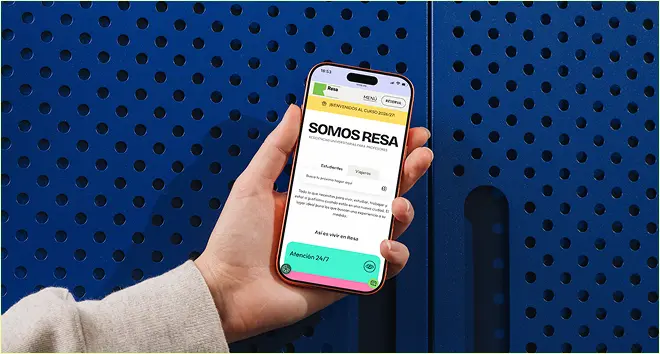
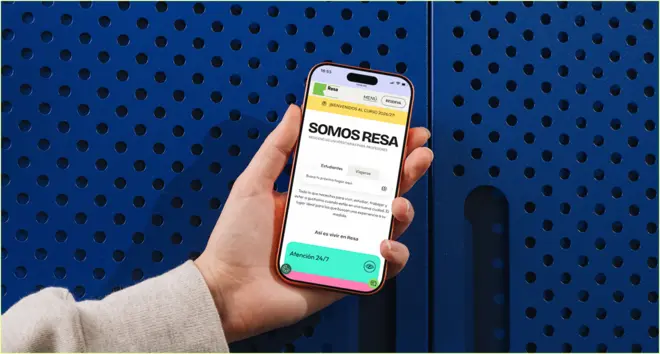
Homepage: exact figures from the Figma SVGs, no seams, marquee rules
- Principles figures, How I work step figures, About shapes and the cat are
  rebuilt from images/shapes/*.svg: each path is its own piece (a small svg
  with a viewBox fitted to that path), positioned in % of the figure box,
  coloured with tokens, so pieces can be animated one by one.
- Principle pieces overlap by one screen pixel each side (non-scaling 2px
  stroke) so no joints show at any size, zoom or pixel density; the arch's
  cream cut-out grows a little more so no pink fringe shows.
- Step figures hide the timeline line behind them, as in the SVGs.
- Cat pupils rest where the drawing puts them and move from there.
- Marquee: 1px lime rule above and below the logo row, full width; the
  boundary above the Brands label is covered so no hairline can show.
- Resa card: sharper thumbnail (1x from the new upload, 2x for retina).
- CLAUDE.md updated.

Claude-Session: https://claude.ai/code/session_019pqTvPFBWj86gGPdNi1oX4

diff --git a/index.html b/index.html
@@ -49,11 +49,22 @@
         </div>
         <!-- Five flat shapes, one component each (id = the shape). Positioned with --x / --y in Figma px at 1440. -->
         <div class="shapes" aria-hidden="true">
-          <div class="shape shape-pill" id="shape-pill"><span class="shape-pill-text">Hi!</span></div>
-          <div class="shape shape-diamond" id="shape-diamond"></div>
-          <div class="shape shape-half" id="shape-half"></div>
-          <div class="shape shape-triangle" id="shape-triangle"></div>
-          <div class="shape shape-circle" id="shape-circle"></div>
+          <div class="shape" id="shape-pill" style="--x:100.3;--y:7.8;--w:220;--h:165">
+            <svg class="piece" style="--l:0;--t:0;--w:99.75;--h:99.61;--c:var(--pink)" viewBox="0 0 219.45 164.36" focusable="false"><rect y="81.9664" width="200" height="90.3256" rx="45.1628" transform="rotate(-24.1943 0 81.9664)"></rect></svg>
+            <svg class="piece" style="--l:37.56;--t:36.16;--w:24;--h:26.87;--c:var(--blue-hi)" viewBox="82.64 59.66 52.8 44.33" focusable="false"><path d="M110.207 96.7625L98.7318 71.222L103.658 69.0089L115.133 94.5494L110.207 96.7625ZM94.1166 103.992L82.6413 78.4515L87.567 76.2384L99.0423 101.779L94.1166 103.992ZM93.3819 91.035L91.595 87.0579L104.292 81.3531L106.079 85.3301L93.3819 91.035ZM120.163 92.2894L111.901 73.9002L116.827 71.6871L125.089 90.0763L120.163 92.2894ZM113.251 70.2679C112.375 70.6613 111.531 70.7338 110.717 70.4853C109.917 70.2015 109.337 69.6582 108.977 68.8555C108.616 68.0528 108.601 67.2704 108.931 66.5082C109.274 65.7108 109.883 65.1154 110.759 64.7219C111.659 64.3176 112.509 64.2573 113.309 64.541C114.122 64.7896 114.709 65.3152 115.07 66.1179C115.43 66.9206 115.439 67.7206 115.096 68.5181C114.766 69.2802 114.151 69.8635 113.251 70.2679ZM127.459 79.0129L119.175 62.0372L124.465 59.6602L131.655 77.1277L127.459 79.0129ZM133.395 86.5634C132.495 86.9678 131.633 87.0335 130.809 86.7607C129.998 86.4526 129.412 85.8972 129.052 85.0945C128.691 84.2918 128.67 83.4972 128.989 82.7107C129.322 81.889 129.938 81.2759 130.838 80.8715C131.738 80.4672 132.593 80.419 133.404 80.7271C134.204 81.0109 134.784 81.5541 135.145 82.3568C135.506 83.1595 135.532 83.9663 135.224 84.7771C134.905 85.5636 134.295 86.159 133.395 86.5634Z"></path></svg>
+          </div>
+          <div class="shape" id="shape-diamond" style="--x:93;--y:364;--w:128;--h:128">
+            <svg class="piece" style="--l:0;--t:0;--w:99.75;--h:99.75;--c:var(--yellow)" viewBox="0 0 127.68 127.68" focusable="false"><rect x="63.8408" width="90.2843" height="90.2843" transform="rotate(45 63.8408 0)"></rect></svg>
+          </div>
+          <div class="shape" id="shape-half" style="--x:1149;--y:243;--w:183;--h:149">
+            <svg class="piece" style="--l:0;--t:0;--w:99.77;--h:99.35;--c:var(--green)" viewBox="0 0 182.58 148.03" focusable="false"><path d="M165.417 0.592773C167.299 -0.56483 169.77 0.0180799 170.845 1.94806C176.322 11.7811 179.965 22.5559 181.596 33.7828C183.42 46.3387 182.693 59.2143 179.457 71.6744C176.22 84.1346 170.537 95.9354 162.733 106.403C154.928 116.871 145.154 125.8 133.969 132.681C122.784 139.563 110.407 144.261 97.5452 146.509C84.6831 148.756 71.5876 148.509 59.0063 145.78C46.4251 143.052 34.6046 137.896 24.2196 130.607C14.9338 124.089 6.95841 115.98 0.650367 106.659C-0.587743 104.829 0.00636844 102.36 1.88792 101.202L83.6525 50.8974L165.417 0.592773Z"></path></svg>
+          </div>
+          <div class="shape" id="shape-triangle" style="--x:1116;--y:487;--w:83;--h:88">
+            <svg class="piece" style="--l:0;--t:0;--w:99.02;--h:99.16;--c:var(--lilac)" viewBox="0 0 82.19 87.27" focusable="false"><path d="M69.6199 1.08174e-05L82.1891 87.2652L-4.25105e-05 54.095L69.6199 1.08174e-05Z"></path></svg>
+          </div>
+          <div class="shape" id="shape-circle" style="--x:146.5;--y:655.5;--w:170;--h:170">
+            <svg class="piece" style="--l:0;--t:0;--w:99.68;--h:99.68;--c:var(--blue)" viewBox="0 0 169.45 169.45" focusable="false"><rect x="44.1484" width="132.856" height="132.856" rx="66.4281" transform="rotate(19.4085 44.1484 0)"></rect></svg>
+          </div>
         </div>
       </div>
     </section>
@@ -69,11 +80,11 @@
             <p class="t-lead">When anything can be generated, options are cheap and endless. The real work is knowing which one to pursue: orchestrating toward the strongest solution, or questioning the default when something better is possible.</p>
           </div>
           <!-- Figures: pieces absolutely positioned in a shared square box (--l/--t/--w/--h in % of the box) -->
-          <div class="figure figure-direction" id="figure-direction" aria-hidden="true">
-            <span class="piece piece-rect" style="--l:0;--t:75;--w:25;--h:25"></span>
-            <span class="piece piece-rect" style="--l:25;--t:50;--w:25;--h:50"></span>
-            <span class="piece piece-rect" style="--l:50;--t:25;--w:25;--h:75"></span>
-            <span class="piece piece-rect" style="--l:75;--t:0;--w:25;--h:100"></span>
+          <div class="figure figure-seamless" id="figure-direction" style="--fw:223;--fh:203" aria-hidden="true">
+            <svg class="piece" style="--l:0;--t:74.88;--w:25.11;--h:25.12" viewBox="0 152 56 51" focusable="false"><rect x="56" y="152" width="51" height="56" transform="rotate(90 56 152)"></rect></svg>
+            <svg class="piece" style="--l:74.89;--t:0;--w:25.11;--h:100" viewBox="167 0 56 203" focusable="false"><rect x="223" width="203" height="56" transform="rotate(90 223 0)"></rect></svg>
+            <svg class="piece" style="--l:25.11;--t:50.25;--w:25.11;--h:49.75" viewBox="56 102 56 101" focusable="false"><rect x="112" y="102" width="101" height="56" transform="rotate(90 112 102)"></rect></svg>
+            <svg class="piece" style="--l:50.22;--t:25.12;--w:24.66;--h:74.88" viewBox="112 51 55 152" focusable="false"><rect x="167" y="51" width="152" height="55" transform="rotate(90 167 51)"></rect></svg>
           </div>
         </li>
         <li class="principle">
@@ -82,9 +93,9 @@
             <h3 class="t-h3">Keep it compelling</h3>
             <p class="t-lead">Beauty isn’t decoration — it’s what earns attention. We shape each piece to fit the medium it will live in, so it gets noticed amid the noise.</p>
           </div>
-          <div class="figure figure-compelling" id="figure-compelling" aria-hidden="true">
-            <span class="piece piece-half-down" style="--l:0;--t:40;--w:100;--h:50;--c:var(--green)"></span>
-            <span class="piece piece-circle" style="--l:24;--t:14;--w:52;--h:52;--c:var(--blue)"></span>
+          <div class="figure figure-seamless" id="figure-compelling" style="--fw:215;--fh:206" aria-hidden="true">
+            <svg class="piece" style="--l:0.04;--t:50;--w:99.93;--h:50;--c:var(--green)" viewBox="0.08 103 214.84 103" focusable="false"><path d="M211 103C213.209 103 215.008 104.792 214.919 106.999C214.426 119.16 211.686 131.153 206.817 142.416C201.415 154.913 193.496 166.268 183.514 175.832C173.532 185.396 161.681 192.983 148.638 198.16C135.596 203.336 121.617 206 107.5 206C93.3829 206 79.404 203.336 66.3615 198.16C53.319 192.983 41.4683 185.396 31.486 175.832C21.5037 166.268 13.5853 154.913 8.18295 142.416C3.31358 131.153 0.574196 119.16 0.0810478 106.999C-0.00846014 104.792 1.79086 103 4 103L107.5 103L211 103Z"></path></svg>
+            <svg class="piece" style="--l:16.52;--t:15.13;--w:67.1;--h:70.03;--c:var(--blue)" viewBox="35.52 31.17 144.26 144.26" focusable="false"><rect x="73.1001" y="31.175" width="113.103" height="113.103" rx="56.5513" transform="rotate(19.4085 73.1001 31.175)"></rect></svg>
           </div>
         </li>
         <li class="principle">
@@ -93,10 +104,10 @@
             <h3 class="t-h3">Keep it clean</h3>
             <p class="t-lead">In a world buried in information, we order and compose so the important things rise to the surface — turning noise into stories people can actually follow.</p>
           </div>
-          <div class="figure figure-clean" id="figure-clean" aria-hidden="true">
-            <span class="piece piece-rect" style="--l:0;--t:54;--w:29;--h:42"></span>
-            <span class="piece piece-rect" style="--l:71;--t:54;--w:29;--h:42"></span>
-            <span class="piece piece-ring-top" style="--l:0;--t:4;--w:100;--h:50"></span>
+          <div class="figure figure-seamless" id="figure-clean" style="--fw:191;--fh:202" aria-hidden="true">
+            <svg class="piece" style="--l:0;--t:48.13;--w:100;--h:39.11" viewBox="0 97.23 191 79" focusable="false"><rect x="191" y="97.2288" width="79" height="191" transform="rotate(90 191 97.2288)"></rect></svg>
+            <svg class="piece" style="--l:0;--t:0.11;--w:100;--h:87.13" viewBox="0 0.23 191 176" focusable="false"><rect y="0.22876" width="191" height="176" rx="88"></rect></svg>
+            <svg class="piece piece-hole" style="--l:28.74;--t:30.92;--w:41.88;--h:56.44;--c:var(--cream)" viewBox="54.89 62.46 80 114" focusable="false"><rect x="134.892" y="62.4576" width="114" height="80" transform="rotate(90 134.892 62.4576)"></rect></svg>
           </div>
         </li>
       </ol>
@@ -114,7 +125,7 @@
       <ul class="case-grid">
         <li class="case">
           <a class="card-btn case-link" href="case/resa/">
-            <span class="card-thumb case-thumb"><img src="images/resa/resa-thumbnail.webp" width="660" height="354" alt="" loading="lazy" decoding="async"></span>
+            <span class="card-thumb case-thumb"><img src="images/resa/resa-thumbnail.webp" srcset="images/resa/resa-thumbnail.webp 660w, images/resa/resa-thumbnail-2x.webp 1320w" sizes="(max-width: 860px) 100vw, 50vw" width="660" height="354" alt="" loading="lazy" decoding="async"></span>
             <span class="case-title t-h3">Resa</span>
             <span class="t-label">Brand strategy, UX/UI · 2025</span>
           </a>
@@ -202,46 +213,50 @@
       <ol class="timeline">
         <li class="tl-step">
           <h3 class="t-h3 tl-title">Listen</h3>
-          <div class="figure figure-step" aria-hidden="true">
-            <span class="piece piece-half-down" style="--l:0;--t:25;--w:100;--h:50;--r:-45"></span>
+          <div class="figure figure-step" id="figure-step-1" style="--fw:48;--fh:48" aria-hidden="true">
+            <svg class="piece" style="--l:0;--t:0;--w:100;--h:100" viewBox="0 0 48 48" focusable="false"><path d="M8.2355 0C2.9624 5.2731 3.85273e-08 12.425 0 19.8823C-3.85273e-08 27.3395 2.9624 34.4914 8.2355 39.7645C13.5086 45.0376 20.6605 48 28.1178 48C35.575 48 42.7269 45.0376 48 39.7645L8.2355 0Z"></path></svg>
           </div>
           <p class="t-lead tl-text">Every project starts with listening: what the project needs, and what the people behind it need too. Experience helps me ask the right questions from day one, and show where design can help long before anything is drawn.</p>
         </li>
         <li class="tl-step">
           <h3 class="t-h3 tl-title">Discover</h3>
-          <div class="figure figure-step" aria-hidden="true">
-            <span class="piece piece-half-up" style="--l:0;--t:12;--w:76;--h:38"></span>
-            <span class="piece piece-half-down" style="--l:24;--t:50;--w:76;--h:38"></span>
+          <div class="figure figure-step" id="figure-step-2" style="--fw:48;--fh:48" aria-hidden="true">
+            <svg class="piece" style="--l:25;--t:51.05;--w:75;--h:39.37" viewBox="12 24.5 36 18.9" focusable="false"><path d="M12 24.504C12 29.5156 13.8964 34.3218 17.2721 37.8656C20.6477 41.4093 25.2261 43.4001 30 43.4001C34.7739 43.4001 39.3523 41.4093 42.7279 37.8656C46.1036 34.3219 48 29.5156 48 24.504L12 24.504Z"></path></svg>
+            <svg class="piece" style="--l:0;--t:9.58;--w:75;--h:39.37" viewBox="0 4.6 36 18.9" focusable="false"><path d="M0 23.4962C0 18.4846 1.89642 13.6783 5.27208 10.1346C8.64773 6.59093 13.2261 4.6001 18 4.6001C22.7739 4.6001 27.3523 6.59093 30.7279 10.1346C34.1036 13.6783 36 18.4846 36 23.4962L0 23.4962Z"></path></svg>
           </div>
           <p class="t-lead tl-text">Before shaping anything, I get to know the brand, look at what already exists and search for the value proposition. When a project is already underway, a blueprint workshop helps us see where we stand. I share what I’m finding before we choose a path, often with references or a quick low-fi sketch. A simple visual sparks a better conversation than a concept explained in words.</p>
         </li>
         <li class="tl-step">
           <h3 class="t-h3 tl-title">Plan</h3>
-          <div class="figure figure-step" aria-hidden="true">
-            <span class="piece piece-half-right" style="--l:0;--t:6;--w:44;--h:88"></span>
-            <span class="piece piece-half-right" style="--l:46;--t:17;--w:33;--h:66"></span>
-            <span class="piece piece-half-right" style="--l:79;--t:27;--w:23;--h:46"></span>
+          <div class="figure figure-step" id="figure-step-3" style="--fw:48;--fh:48" aria-hidden="true">
+            <svg class="piece" style="--l:86.5;--t:0;--w:13.5;--h:100" viewBox="41.52 0 6.48 48" focusable="false"><path d="M41.52 0.000343889C45.6801 6.5525 48 15.1051 48 24.0002C48 32.8952 45.6801 41.4478 41.52 48L41.52 0.000343889Z"></path></svg>
+            <svg class="piece" style="--l:0;--t:0;--w:50;--h:100" viewBox="0 0 24 48" focusable="false"><path d="M-4.19629e-06 3.81596e-07C6.36519 -1.74867e-07 12.4697 2.52856 16.9706 7.02943C21.4714 11.5303 24 17.6348 24 24C24 30.3652 21.4714 36.4697 16.9706 40.9706C12.4697 45.4714 6.3652 48 3.8147e-06 48L-4.19629e-06 3.81596e-07Z"></path></svg>
+            <svg class="piece" style="--l:52;--t:0;--w:32.5;--h:100" viewBox="24.96 0 15.6 48" focusable="false"><path d="M33.5306 5.88366C31.0776 3.26504 28.1482 1.27181 24.96 9.73817e-05L24.96 48C28.1482 46.7283 31.0776 44.7351 33.5306 42.1164C38.0314 37.3117 40.56 30.795 40.56 24C40.56 17.2051 38.0314 10.6884 33.5306 5.88366Z"></path></svg>
           </div>
           <p class="t-lead tl-text">We set clear milestones, with clear deliverables at each one. Delivering in phases gives strategy the weight it deserves, and gives the visual work a solid reason to exist.</p>
         </li>
         <li class="tl-step">
           <h3 class="t-h3 tl-title">Build together</h3>
-          <div class="figure figure-step" aria-hidden="true">
-            <span class="piece piece-quarter" style="--l:0;--t:0;--w:50;--h:50;--r:90"></span>
-            <span class="piece piece-quarter" style="--l:50;--t:0;--w:50;--h:50;--r:180"></span>
-            <span class="piece piece-quarter" style="--l:50;--t:50;--w:50;--h:50;--r:270"></span>
-            <span class="piece piece-quarter" style="--l:0;--t:50;--w:50;--h:50;--r:0"></span>
+          <div class="figure figure-step" id="figure-step-4" style="--fw:48;--fh:48" aria-hidden="true">
+            <svg class="piece" style="--l:0;--t:0.03;--w:32.5;--h:64.93" viewBox="0 0.02 15.6 31.17" focusable="false"><path d="M15.6 0.719998C15.6 0.322353 15.2775 -0.00173525 14.8802 0.0166109C13.0774 0.0998757 11.3008 0.495446 9.63014 1.18748C7.73746 1.97145 6.01773 3.12054 4.56913 4.56913C3.12054 6.01772 1.97145 7.73745 1.18748 9.63013C0.403506 11.5228 1.85196e-07 13.5514 0 15.6C-1.85195e-07 17.6486 0.403505 19.6772 1.18748 21.5698C1.97145 23.4625 3.12054 25.1823 4.56913 26.6309C6.01772 28.0794 7.73745 29.2285 9.63013 30.0125C11.3008 30.7045 13.0774 31.1001 14.8802 31.1834C15.2775 31.2017 15.6 30.8776 15.6 30.48L15.6 0.719998Z"></path></svg>
+            <svg class="piece" style="--l:35.03;--t:0;--w:64.93;--h:32.5" viewBox="16.82 0 31.17 15.6" focusable="false"><path d="M47.28 15.6C47.6776 15.6 48.0017 15.2775 47.9834 14.8802C47.9001 13.0774 47.5045 11.3008 46.8125 9.63014C46.0285 7.73746 44.8794 6.01773 43.4308 4.56913C41.9823 3.12054 40.2625 1.97145 38.3698 1.18748C36.4772 0.403506 34.4486 3.32862e-07 32.4 0C30.3514 -3.32861e-07 28.3228 0.403505 26.4301 1.18748C24.5374 1.97145 22.8177 3.12054 21.3691 4.56913C19.9205 6.01772 18.7714 7.73745 17.9875 9.63013C17.2954 11.3008 16.8999 13.0774 16.8166 14.8802C16.7983 15.2775 17.1223 15.6 17.52 15.6L47.28 15.6Z"></path></svg>
+            <svg class="piece" style="--l:67.5;--t:35.03;--w:32.5;--h:64.93" viewBox="32.4 16.82 15.6 31.17" focusable="false"><path d="M32.4 47.28C32.4 47.6776 32.7225 48.0017 33.1197 47.9834C34.9225 47.9001 36.6991 47.5045 38.3698 46.8125C40.2625 46.0285 41.9822 44.8794 43.4308 43.4308C44.8794 41.9823 46.0285 40.2625 46.8125 38.3698C47.5965 36.4772 48 34.4486 48 32.4C48 30.3514 47.5965 28.3228 46.8125 26.4301C46.0285 24.5374 44.8794 22.8177 43.4308 21.3691C41.9823 19.9205 40.2625 18.7714 38.3698 17.9875C36.6991 17.2954 34.9225 16.8999 33.1197 16.8166C32.7225 16.7983 32.4 17.1223 32.4 17.52L32.4 47.28Z"></path></svg>
+            <svg class="piece" style="--l:0.03;--t:67.5;--w:64.93;--h:32.5" viewBox="0.02 32.4 31.17 15.6" focusable="false"><path d="M0.720002 32.4C0.322357 32.4 -0.00173132 32.7225 0.0166148 33.1197C0.0998792 34.9225 0.49545 36.6991 1.18748 38.3698C1.97145 40.2625 3.12054 41.9822 4.56913 43.4308C6.01772 44.8794 7.73745 46.0285 9.63013 46.8125C11.5228 47.5965 13.5514 48 15.6 48C17.6486 48 19.6772 47.5965 21.5699 46.8125C23.4625 46.0285 25.1823 44.8794 26.6309 43.4308C28.0794 41.9822 29.2285 40.2625 30.0125 38.3698C30.7045 36.6991 31.1001 34.9225 31.1834 33.1197C31.2017 32.7225 30.8776 32.4 30.48 32.4L0.720002 32.4Z"></path></svg>
           </div>
           <p class="t-lead tl-text">Every proposal is a draft, open to improvement until we reach a shared goal. I bring the team and the client into each decision, because a decision made together rarely gets overturned. Once we agree, that phase is closed and we move forward without going back.</p>
         </li>
         <li class="tl-step">
           <h3 class="t-h3 tl-title">Craft</h3>
-          <div class="figure figure-step" aria-hidden="true">
-            <span class="piece piece-quarter" style="--l:0;--t:0;--w:38;--h:38;--r:0"></span>
-            <span class="piece piece-quarter" style="--l:62;--t:0;--w:38;--h:38;--r:90"></span>
-            <span class="piece piece-quarter" style="--l:62;--t:62;--w:38;--h:38;--r:180"></span>
-            <span class="piece piece-quarter" style="--l:0;--t:62;--w:38;--h:38;--r:270"></span>
-            <span class="piece piece-circle" style="--l:27;--t:27;--w:46;--h:46"></span>
+          <div class="figure figure-step" id="figure-step-5" style="--fw:48;--fh:48" aria-hidden="true">
+            <svg class="piece" style="--l:50;--t:50;--w:44.1;--h:44.1" viewBox="24 24 21.17 21.17" focusable="false"><path d="M44.2011 24C44.9362 25.8055 45.2646 27.8116 45.1399 29.891C44.9111 33.7065 43.176 37.4566 40.3163 40.3163C37.4566 43.176 33.7065 44.9111 29.891 45.1399C27.8116 45.2645 25.8055 44.9362 24 44.2011L44.2011 24Z"></path></svg>
+            <svg class="piece" style="--l:5.9;--t:5.9;--w:44.1;--h:44.1" viewBox="2.83 2.83 21.17 21.17" focusable="false"><path d="M24 3.79887C22.1945 3.06375 20.1884 2.73544 18.109 2.86012C14.2935 3.0889 10.5434 4.82399 7.68371 7.68371C4.824 10.5434 3.08891 14.2935 2.86014 18.109C2.73545 20.1884 3.06376 22.1944 3.79888 24L24 3.79887Z"></path></svg>
+            <svg class="piece" style="--l:0;--t:0;--w:30.58;--h:30.58" viewBox="0 0 14.68 14.68" focusable="false"><path d="M14.6764 0.691005C13.4166 0.172302 12.0189 -0.0639616 10.5717 0.0148387C7.91646 0.159427 5.3125 1.35289 3.3327 3.33269C1.3529 5.3125 0.159434 7.91645 0.014848 10.5717C-0.0639521 12.0189 0.172313 13.4166 0.691019 14.6764L14.6764 0.691005Z"></path></svg>
+            <svg class="piece" style="--l:69.42;--t:69.42;--w:30.58;--h:30.58" viewBox="33.32 33.32 14.68 14.68" focusable="false"><path d="M33.3236 47.309C34.5834 47.8277 35.9811 48.064 37.4283 47.9852C40.0835 47.8406 42.6875 46.6471 44.6673 44.6673C46.6471 42.6875 47.8406 40.0835 47.9852 37.4283C48.064 35.9811 47.8277 34.5834 47.309 33.3236L33.3236 47.309Z"></path></svg>
+            <svg class="piece" style="--l:69.42;--t:0;--w:30.58;--h:30.58" viewBox="33.32 0 14.68 14.68" focusable="false"><path d="M47.309 14.6764C47.8277 13.4166 48.064 12.0189 47.9852 10.5717C47.8406 7.91645 46.6471 5.31249 44.6673 3.33269C42.6875 1.35289 40.0835 0.159426 37.4283 0.0148414C35.9811 -0.0639588 34.5834 0.172305 33.3236 0.691008L47.309 14.6764Z"></path></svg>
+            <svg class="piece" style="--l:0;--t:69.42;--w:30.58;--h:30.58" viewBox="0 33.32 14.68 14.68" focusable="false"><path d="M0.691015 33.3236C0.17231 34.5834 -0.0639547 35.9811 0.0148453 37.4283C0.159433 40.0835 1.3529 42.6875 3.3327 44.6673C5.31251 46.6471 7.91646 47.8406 10.5717 47.9851C12.0189 48.0639 13.4166 47.8277 14.6764 47.309L0.691015 33.3236Z"></path></svg>
+            <svg class="piece" style="--l:5.9;--t:50;--w:44.1;--h:44.1" viewBox="2.83 24 21.17 21.17" focusable="false"><path d="M24 44.2011C22.1945 44.9362 20.1884 45.2645 18.109 45.1399C14.2935 44.9111 10.5434 43.176 7.68371 40.3163C4.824 37.4566 3.08891 33.7065 2.86013 29.891C2.73545 27.8116 3.06376 25.8055 3.79888 24L24 44.2011Z"></path></svg>
+            <svg class="piece" style="--l:50;--t:5.9;--w:44.1;--h:44.1" viewBox="24 2.83 21.17 21.17" focusable="false"><path d="M44.2011 24C44.9362 22.1945 45.2646 20.1884 45.1399 18.109C44.9111 14.2935 43.176 10.5434 40.3163 7.68371C37.4566 4.82399 33.7065 3.0889 29.891 2.86013C27.8116 2.73545 25.8055 3.06374 24 3.79887L44.2011 24Z"></path></svg>
+            <svg class="piece" style="--l:20.24;--t:20.24;--w:59.52;--h:59.52" viewBox="9.72 9.72 28.57 28.57" focusable="false"><path d="M34.1006 13.8994C39.679 19.4778 39.679 28.5222 34.1006 34.1006C28.5222 39.6789 19.4778 39.6789 13.8994 34.1006C8.32106 28.5222 8.32106 19.4778 13.8994 13.8994C19.4778 8.32105 28.5222 8.32105 34.1006 13.8994Z"></path></svg>
           </div>
           <p class="t-lead tl-text">Only now does the final design take shape, built on everything that came before.</p>
         </li>
@@ -261,10 +276,14 @@
     <p class="contact-links t-link"><a href="mailto:anaonadal@gmail.com">anaonadal@gmail.com</a><a href="https://www.linkedin.com/in/anadal" target="_blank" rel="noopener">LinkedIn<span class="sr-only"> (opens in a new tab)</span></a></p>
     <!-- Cat: the pupils follow the cursor (home.js) -->
     <div class="cat" aria-hidden="true">
-      <svg viewBox="0 0 224 104" focusable="false">
-        <path class="cat-body" d="M0 104V12L7 0L29 15L51 0L56 42C98 38 127 60 131 86H219L224 104Z"/>
-        <g class="cat-eye" data-eye><circle class="cat-iris" cx="19" cy="30" r="5.5"/><circle class="cat-pupil" cx="19" cy="30" r="2.4"/></g>
-        <g class="cat-eye" data-eye><circle class="cat-iris" cx="39" cy="30" r="5.5"/><circle class="cat-pupil" cx="39" cy="30" r="2.4"/></g>
+      <svg viewBox="0 0 224 175" focusable="false">
+        <path class="cat-part" d="M1.25655 114.199C0.562503 114.199 -0.00161484 113.636 0.0141779 112.942C0.185732 105.408 1.89879 97.9647 5.06973 90.9955C8.41685 83.639 13.3228 76.9548 19.5075 71.3244C25.6921 65.694 33.0344 61.2278 41.1151 58.1806C49.1957 55.1335 57.8565 53.5651 66.603 53.5651C75.3494 53.5651 84.0102 55.1335 92.0909 58.1806C100.172 61.2277 107.514 65.694 113.698 71.3244C119.883 76.9548 124.789 83.639 128.136 90.9955C131.307 97.9647 133.02 105.408 133.192 112.942C133.208 113.636 132.643 114.199 131.949 114.199L66.603 114.199L1.25655 114.199Z"/>
+        <path class="cat-part" d="M106.502 97.5488H162.738H218.974L224 114.2H106.502L106.502 97.5488Z"/>
+        <path class="cat-part" d="M4.86957 29.2647L53.7223 29.2646L79.0126 114.199H0L4.86957 29.2647Z"/>
+        <path class="cat-part" d="M5.78129 11.8067C5.79402 11.552 6.08888 11.4178 6.2893 11.5755L28.6753 29.1858C28.9082 29.369 28.7813 29.7431 28.4851 29.7469L5.20365 30.0453C5.0224 30.0477 4.87679 29.8966 4.88585 29.7155L5.78129 11.8067Z"/>
+        <path class="cat-part" d="M52.0525 11.7806C52.0276 11.5316 51.7357 11.4102 51.5416 11.5682L29.8893 29.1887C29.6615 29.3741 29.7899 29.7428 30.0836 29.7465L53.5278 30.0452C53.7152 30.0475 53.8631 29.8863 53.8444 29.6998L52.0525 11.7806Z"/>
+        <g class="cat-eye" data-eye><circle class="cat-iris" cx="19.0399" cy="40.3197" r="5.6"/><circle class="cat-pupil" cx="16.2401" cy="38.64" r="1.68"/></g>
+        <g class="cat-eye" data-eye><circle class="cat-iris" cx="39.2001" cy="40.3197" r="5.6"/><circle class="cat-pupil" cx="36.4002" cy="38.64" r="1.68"/></g>
       </svg>
     </div>
     <div class="contact-foot" aria-hidden="true">

diff --git a/home.css b/home.css
@@ -15,6 +15,8 @@
   --green: #007923;
   --blue: #0042e5;
   --lilac: #987fff;
+  --blue-hi: #104ffe;   /* the "Hi!" on the pill */
+  --black: #000;
   /* Shared variables used by styles.css (topbar, skip link, focus) */
   --bg: var(--cream);
   --ink: var(--red);
@@ -41,22 +43,22 @@
 
 /* ---------- Pieces (shared by the shapes, the principle figures and the step figures) ---------- */
 
-/* A figure is a square box; each piece sits in it with --l / --t / --w / --h (% of the box), --c (colour) and --r (deg). */
-.figure { position: relative; width: var(--box, 224px); aspect-ratio: 1; flex: none; }
+/* A figure is a box with the proportions of its Figma frame (--fw × --fh, in Figma px; --k scales it).
+   Each piece is one path of the original SVG (images/shapes/), in its own small <svg> whose viewBox is that
+   path's bounding box, placed with --l / --t / --w / --h (% of the box). Colour: --c (a token), else currentColor.
+   Pieces can be moved one by one (transform). */
+.figure { position: relative; width: calc(var(--fw) * var(--k, 1px)); height: calc(var(--fh) * var(--k, 1px)); flex: none; }
 .piece {
-  position: absolute; display: block;
+  position: absolute; display: block; overflow: visible;
   left: calc(var(--l) * 1%); top: calc(var(--t) * 1%); width: calc(var(--w) * 1%); height: calc(var(--h) * 1%);
-  background: var(--c, currentColor); transform: rotate(calc(var(--r, 0) * 1deg));
+  fill: var(--c, currentColor);
 }
-.piece-circle { border-radius: 50%; }
-.piece-half-down { border-radius: 0 0 50% 50% / 0 0 100% 100%; }     /* flat edge on top, bowl below */
-.piece-half-up { border-radius: 50% 50% 0 0 / 100% 100% 0 0; }       /* bowl on top, flat edge below */
-.piece-half-right { border-radius: 0 50% 50% 0 / 0 100% 100% 0; }    /* D: flat edge on the left */
-.piece-quarter { border-radius: 100% 0 0 0; }                        /* quarter disc, round corner top left before --r */
-.piece-ring-top {                                                    /* top half of a ring */
-  background: radial-gradient(circle farthest-side at 50% 100%, transparent 42%, var(--c, currentColor) calc(42% + 0.5px));
-  border-radius: 50% 50% 0 0 / 100% 100% 0 0;
-}
+/* No seams: pieces that touch grow by one screen pixel on every side (a 2px stroke that never scales), so
+   neighbours overlap at any size, zoom or pixel density. (Half a pixel each side still left a faint joint at some
+   sizes, because each piece is drawn on its own.) */
+.figure-seamless .piece > * { stroke: var(--c, currentColor); stroke-width: 2px; vector-effect: non-scaling-stroke; stroke-linejoin: miter; }
+/* The cream cut-out of the arch ends on the same line as the pink under it: it grows a bit more, so no pink fringe shows */
+.figure-seamless .piece-hole > * { stroke-width: 4px; }
 
 /* ---------- 01 About ---------- */
 
@@ -71,19 +73,13 @@
 .about .t-hero { margin-bottom: calc(40 * var(--s)); }
 .about-lead { font-size: clamp(1.25rem, 2.08vw, 1.875rem); line-height: 1.2; letter-spacing: -0.02em; max-width: calc(690 * var(--s)); }
 
-/* Shapes: each one is a single element (its id is the shape), placed in Figma px at 1440 (--x / --y / --w / --h). */
+/* Shapes: one box each (its id is the shape), placed in Figma px at 1440 (--x / --y, box --w × --h, scaled by --s),
+   with the pieces of its SVG inside. */
 .shape {
   position: absolute; display: block;
   left: calc(var(--x) * var(--s)); top: calc(var(--y) * var(--s));
   width: calc(var(--w) * var(--s)); height: calc(var(--h) * var(--s));
-  transform: rotate(var(--rot, 0deg)); transform-origin: var(--origin, 50% 50%);
 }
-.shape-pill { --x: 121; --y: 56.5; --w: 178; --h: 67; --rot: -25deg; background: var(--pink); border-radius: 999px; display: flex; align-items: center; justify-content: center; }
-.shape-pill-text { color: var(--blue); font-size: calc(38 * var(--s)); font-weight: 600; letter-spacing: -0.02em; line-height: 1; }
-.shape-diamond { --x: 112; --y: 382; --w: 90; --h: 90; --rot: 45deg; background: var(--yellow); }
-.shape-half { --x: 1136.5; --y: 295; --w: 195; --h: 97.5; --rot: -31deg; --origin: 50% 0; background: var(--green); border-radius: 0 0 50% 50% / 0 0 100% 100%; }
-.shape-triangle { --x: 1116; --y: 487; --w: 81; --h: 86; background: var(--lilac); clip-path: polygon(0 61.6%, 82.7% 0, 100% 100%); }
-.shape-circle { --x: 164.5; --y: 673.5; --w: 133; --h: 133; background: var(--blue); border-radius: 50%; }
 
 /* ---------- 02 Principles ---------- */
 
@@ -97,9 +93,12 @@
 .principle-text { grid-column: 1 / 7; }
 .principle-text .t-h3 { margin-top: 40px; }
 .principle-text .t-lead { margin-top: 40px; max-width: 680px; }
-.principle .figure { --box: clamp(150px, 15.56vw, 224px); grid-column: 10 / 12; justify-self: center; }
-.figure-direction { --c: var(--yellow); }
-.figure-clean { --c: var(--pink); }
+.principle { position: relative; }
+/* Placed as in Figma, relative to the principle (--px / --py in Figma px at 1440) */
+.principle .figure { --k: var(--s); position: absolute; left: calc(var(--px) * var(--s)); top: calc(var(--py) * var(--s)); }
+#figure-direction { --px: 1003; --py: 72; --c: var(--yellow); }
+#figure-compelling { --px: 1010; --py: 17; }
+#figure-clean { --px: 1018; --py: 48.5; --c: var(--pink); }
 
 /* ---------- Pixel edges (stepped edges of squares; --x / --y in squares) ---------- */
 
@@ -142,9 +141,9 @@ a.case-link:focus-visible .case-thumb { outline-width: 2px; }
 
 /* ---------- Brands marquee ---------- */
 
-.brands { padding: 80px 0; }
+.brands { padding: 80px 0; box-shadow: 0 -1px 0 var(--red); }   /* covers any hairline where the two red sections meet */
 .brands > .t-label { padding: 0 var(--gutter); }
-.marquee { margin-top: 40px; overflow: hidden; }
+.marquee { margin-top: 40px; overflow: hidden; border-top: 1px solid var(--lime); border-bottom: 1px solid var(--lime); }   /* rules above and below the logos, full width */
 .marquee-track { display: flex; width: max-content; animation: home-marquee 40s linear infinite; }
 .marquee:hover .marquee-track { animation-play-state: paused; }
 .marquee-set { display: flex; }
@@ -162,7 +161,7 @@ a.case-link:focus-visible .case-thumb { outline-width: 2px; }
 .tl-step:last-child { padding-bottom: 80px; }
 .tl-title { grid-column: 1; padding-right: 80px; }
 .tl-text { grid-column: 2; padding-left: 80px; max-width: 680px; }
-.tl-step .figure { --box: 48px; position: absolute; top: 80px; left: calc(50% - 24px); z-index: 1; }
+.tl-step .figure { position: absolute; top: 80px; left: calc(50% - 24px); z-index: 1; background: var(--sky); }   /* the line stops behind the figure, so its gaps read as in the SVG */
 /* Curved bottom edge: it overhangs the section and rises over the footer */
 .how-curve { position: absolute; top: calc(100% - 1px); left: 0; display: block; width: 100%; height: clamp(40px, 5vw, 72px); fill: var(--sky); }
 
@@ -191,9 +190,9 @@ a.case-link:focus-visible .case-thumb { outline-width: 2px; }
 
 .cat { position: absolute; right: clamp(1rem, 3.2vw, 46px); top: 200px; width: clamp(120px, 15.56vw, 224px); }
 .cat svg { display: block; width: 100%; height: auto; overflow: visible; }
-.cat-body { fill: #000; }
+.cat-part { fill: var(--black); }
 .cat-iris { fill: var(--red); }
-.cat-pupil { fill: #000; }
+.cat-pupil { fill: var(--black); }
 
 /* ---------- Mobile ---------- */
 
@@ -209,17 +208,18 @@ a.case-link:focus-visible .case-thumb { outline-width: 2px; }
   .about-text, .about-lead { max-width: none; }
   .about-eyebrow { margin-bottom: 24px; }
   .about .t-hero { margin-bottom: 24px; }
-  .shape-pill { left: 8px; top: 44px; width: 128px; height: 48px; }
-  .shape-pill-text { font-size: 26px; }
-  .shape-half { left: auto; right: 6px; top: 40px; width: 120px; height: 60px; }
-  .shape-diamond { top: auto; bottom: 90px; left: 34px; width: 60px; height: 60px; }
-  .shape-circle { top: auto; bottom: 36px; left: calc(50% - 44px); width: 88px; height: 88px; }
-  .shape-triangle { top: auto; bottom: 96px; left: auto; right: 34px; width: 60px; height: 64px; }
+  /* Shapes at 0.6 of their size: two above the text, three below */
+  .shapes { --s: 0.6px; }
+  #shape-pill { left: 0; top: 30px; }
+  #shape-half { left: auto; right: 4px; top: 34px; }
+  #shape-diamond { top: auto; bottom: 64px; left: 26px; }
+  #shape-circle { top: auto; bottom: 22px; left: calc(50% - 51px); }
+  #shape-triangle { top: auto; bottom: 84px; left: auto; right: 34px; }
 
   .principles { padding: 64px var(--gutter); }
   .principle { display: flex; flex-direction: column; align-items: flex-start; min-height: 0; }
   .principle + .principle { margin-top: 64px; }
-  .principle .figure { --box: 150px; order: -1; margin-bottom: 32px; justify-self: auto; }
+  .principle .figure { --k: 0.62px; position: relative; left: auto; top: auto; order: -1; margin-bottom: 32px; }
   .principle-text .t-h3, .principle-text .t-lead { margin-top: 24px; }
 
   .cases { padding: 64px var(--gutter); }

diff --git a/home.js b/home.js
@@ -32,11 +32,13 @@
   window.addEventListener("load", fitFooter);
 
   /* Cat: the pupils follow the cursor (or the last touch), clamped inside the eye, with easing (lerp).
-     With no input they look straight ahead; with reduced motion they stay centred. */
+     With no input, and with reduced motion, they stay where the drawing (images/shapes/cat.svg) puts them. */
   var eyes = Array.prototype.map.call(document.querySelectorAll(".cat [data-eye]"), function (g) {
     var iris = g.querySelector(".cat-iris"), pupil = g.querySelector(".cat-pupil");
     var r = +iris.getAttribute("r"), pr = +pupil.getAttribute("r");
-    return { iris: iris, pupil: pupil, max: r - pr - 0.4, x: 0, y: 0, tx: 0, ty: 0, cx: 0, cy: 0, scale: 1 };
+    // bx / by: where the drawing puts the pupil, from the centre of the eye
+    var bx = +pupil.getAttribute("cx") - +iris.getAttribute("cx"), by = +pupil.getAttribute("cy") - +iris.getAttribute("cy");
+    return { iris: iris, pupil: pupil, max: r - pr - 0.4, bx: bx, by: by, x: 0, y: 0, tx: 0, ty: 0, cx: 0, cy: 0, scale: 1 };
   });
   var svg = document.querySelector(".cat svg");
   function measureEyes() {
@@ -55,7 +57,7 @@
       if (!pointer) { e.tx = 0; e.ty = 0; return; }
       var dx = pointer.x - e.cx, dy = pointer.y - e.cy, d = Math.sqrt(dx * dx + dy * dy) || 1;
       var reach = Math.min(1, d / (e.scale * 60));          // close to the eye, the pupil moves less
-      e.tx = dx / d * e.max * reach; e.ty = dy / d * e.max * reach;
+      e.tx = dx / d * e.max * reach - e.bx; e.ty = dy / d * e.max * reach - e.by;   // translate from the drawn position
     });
     if (!ticking) { ticking = true; requestAnimationFrame(step); }
   }

diff --git a/CLAUDE.md b/CLAUDE.md
@@ -89,15 +89,17 @@ Diseño en Figma: Wireframes, nodo `34:101` ("Homepage — Desktop 1443", 1440 p
 
 - **Tokens:** crema #F5F5F2 · rojo #CD2605 · rojo oscuro #A41E04 · lima #E9FFAA · azul claro #DDE7FF · granate #490000. Formas: rosa #FF91C2, amarillo #FFC400, verde #007923, azul #0042E5, lila #987FFF. Tipos (DM Sans, todos fluidos con `clamp()`): label 11/1 medium mayúsculas · lead 22/30.8 · H3 40/40.8 medium −1.4 · H2 74.88/71.14 medium −3.37 · título de card 25.92/28.51 medium −0.78 · enlace 24/37.2 · titular del hero ≈150 px.
 - **Cabecera:** la de siempre (hora de Madrid y menú de capítulos), en crema con texto rojo.
-- **About (crema, texto rojo):** label "Ana Nadal — Product & brand design lead", titular "I turn noise / into direction" y el párrafo de About. Cinco formas planas alrededor del texto, nunca encima: píldora rosa con "Hi!" en azul (arriba a la izquierda, −25°), rombo amarillo (izquierda), medio disco verde (derecha, girado), triángulo lila (derecha) y círculo azul (abajo a la izquierda). Cada forma es un único elemento con su id (`#shape-pill`, `#shape-diamond`, `#shape-half`, `#shape-triangle`, `#shape-circle`) colocado en px de Figma a 1440 (`--x`, `--y`, `--w`, `--h`, escalados con `--s`), pensado para animarse y convertirse en un juego de físicas. En móvil van en una banda encima y otra debajo del texto.
-- **Principles (crema, texto rojo):** label "Principles" y los tres principios apilados (número, título, texto) con su figura a la derecha: 01 escalera amarilla de 4 peldaños, 02 círculo azul sobre medio disco verde, 03 arco rosa. Cada figura es una caja cuadrada (`.figure`) con piezas sueltas (`.piece`, con `--l`, `--t`, `--w`, `--h` en % de la caja, `--c` color y `--r` giro): escalera = 4 rectángulos; compelling = medio disco + círculo; clean = 2 patas + medio anillo. Así otra versión puede mover las piezas de una figura a otra. En móvil la figura va encima del texto.
-- **Case studies (fondo rojo, texto y bordes de 1 px en lima):** label "Case studies"; rejilla 2×2: Resa (`images/resa/resa-thumbnail.webp`), Signify (sin página ni imagen: caja #A41E04 con borde lima y "Coming soon" en cursiva, centrado), Oros Travel & Culture (`oros-poster`) y Mr Sunday (`mr-sunday-logo`). Debajo, el badge "● WIP" (el punto pulsa) y dos cards pequeñas con borde, sin imagen todavía: AI tools for corporate bankers y A guide for newcomers to Spain. Havaianas ya no está en la home (su página sigue existiendo). En móvil, una card por fila.
-- **Brands I've designed for (mismo rojo):** fila de logos de `/images/logos/` (Amadeus, Signify, BBVA, Havaianas, Avolta, Santander, Loewe; ya en lima) separados por líneas verticales de 1 px en lima, que se mueve sin parar de derecha a izquierda (animación CSS; el conjunto va duplicado para que el bucle no tenga corte). Se para al pasar el ratón; con `prefers-reduced-motion` no se mueve.
+- **About (crema, texto rojo):** label "Ana Nadal — Product & brand design lead", titular "I turn noise / into direction" y el párrafo de About. Cinco formas planas alrededor del texto, nunca encima: píldora rosa con "Hi!" en azul (arriba a la izquierda, −25°), rombo amarillo (izquierda), medio disco verde (derecha, girado), triángulo lila (derecha) y círculo azul (abajo a la izquierda). Cada forma es una caja con su id (`#shape-pill`, `#shape-diamond`, `#shape-half`, `#shape-triangle`, `#shape-circle`) colocada en px de Figma a 1440 (`--x`, `--y`, caja `--w` × `--h`, escalados con `--s`), con las piezas de su SVG dentro (la píldora: la píldora y el "Hi!"), pensada para animarse y convertirse en un juego de físicas. En móvil van al 60 %, en una banda encima y otra debajo del texto.
+- **Principles (crema, texto rojo):** label "Principles" y los tres principios apilados (número, título, texto) con su figura a la derecha: 01 escalera amarilla de 4 peldaños, 02 círculo azul sobre medio disco verde, 03 arco rosa. Cada figura va colocada como en Figma (`--px`, `--py`) y es una caja con las proporciones de su SVG (`.figure`, `--fw` × `--fh`): escalera = 4 rectángulos; compelling = medio disco + círculo; clean = base, arco y el hueco en crema. En móvil la figura va encima del texto.
+- **Case studies (fondo rojo, texto y bordes de 1 px en lima):** label "Case studies"; rejilla 2×2: Resa (`images/resa/resa-thumbnail.webp`, y `resa-thumbnail-2x.webp` en pantallas de alta densidad), Signify (sin página ni imagen: caja #A41E04 con borde lima y "Coming soon" en cursiva, centrado), Oros Travel & Culture (`oros-poster`) y Mr Sunday (`mr-sunday-logo`). Debajo, el badge "● WIP" (el punto pulsa) y dos cards pequeñas con borde, sin imagen todavía: AI tools for corporate bankers y A guide for newcomers to Spain. Havaianas ya no está en la home (su página sigue existiendo). En móvil, una card por fila.
+- **Brands I've designed for (mismo rojo):** fila de logos de `/images/logos/` (Amadeus, Signify, BBVA, Havaianas, Avolta, Santander, Loewe; ya en lima) separados por líneas verticales de 1 px en lima y con una línea de 1 px en lima arriba y abajo, de lado a lado, que se mueve sin parar de derecha a izquierda (animación CSS; el conjunto va duplicado para que el bucle no tenga corte). Se para al pasar el ratón; con `prefers-reduced-motion` no se mueve.
+- **Figuras exactas (`images/shapes/`):** las figuras de Principles (`principle-1..3.svg`), las de How I work (`step-1..5.svg`), las formas del About (`shape-*.svg`) y el gato (`cat.svg`) salen de los SVG originales de Figma. Cada trazo del SVG es una pieza: un `<svg class="piece">` propio, con su `viewBox` ajustado a ese trazo, colocado con `--l`, `--t`, `--w`, `--h` (en % de la caja de la figura) y con su color como token (`--c`, por ejemplo `var(--yellow)`). Así cada pieza se puede animar por separado. Si se cambia un SVG, hay que volver a generar sus piezas.
+- **Sin juntas:** en las figuras de Principles (`.figure-seamless`), las piezas que se tocan crecen un píxel de pantalla por cada lado (un trazo de 2 px que no escala), así que se solapan a cualquier tamaño, zoom o densidad de pantalla; el hueco del arco crece algo más (`.piece-hole`) para que no asome el rosa de debajo. Las figuras de How I work conservan las pequeñas separaciones de su diseño, y la línea de tiempo no se ve a través de ellas (la caja tiene el fondo de la sección).
 - **Bordes pixelados:** donde acaba el crema y empieza el rojo de Case studies, y donde empieza How I work, el borde es escalonado, de cuadrados (`.pixel-edge` con `.px`, colocados con `--x` / `--y` en cuadrados de 80 px a 1440). Arriba de Case studies suben hacia el crema; arriba de How I work cuelgan hacia el azul. Por ahora son estáticos; se animarán después.
 - **How I work (azul claro, texto rojo):** H2 "How I work", la frase de introducción y una línea de tiempo: línea roja de 1 px en el centro, títulos a la izquierda (Listen, Discover, Plan, Build together, Craft; sin "Always") y los textos de Nivel 2 a la derecha. Sobre la línea, la figura de cada paso (estática por ahora), con tantas piezas como su número (de 1 a 5), hechas igual que las de los principios. El borde inferior de la sección es una curva ancha hacia abajo (`.how-curve`). En móvil la línea va a la izquierda.
-- **Contact (footer, granate):** label "Contact", "Let's talk" enorme en rojo, enlaces rojos subrayados (email y LinkedIn), y abajo la marca "Concept by human / Made by AI" y la pastilla "© 2026" con sus iconos (los SVG de siempre, en rojo con `mask`). A la derecha, un gato negro sentado con los ojos rojos.
+- **Contact (footer, granate):** label "Contact", "Let's talk" enorme en rojo, enlaces rojos subrayados (email y LinkedIn), y abajo la marca "Concept by human / Made by AI" y la pastilla "© 2026" con sus iconos (los SVG de siempre, en rojo con `mask`). A la derecha, el gato negro sentado con los ojos rojos (`cat.svg`).
 - **Footer que se descubre:** el footer está fijo debajo de la página (`position: fixed`, z-index 0); todo lo de encima tiene su fondo y va por encima (`main`, z-index 1). Al final hay un espacio transparente (`.footer-spacer`, tan alto como el footer, medido por `home.js`), así que How I work, con su curva, sube como un telón y descubre el footer. Si el footer es más alto que la pantalla, deja de ser fijo y sigue a la página, para que nunca quede nada oculto.
-- **Gato:** las pupilas siguen al cursor (solo se mueven las pupilas, dentro del ojo, con suavizado `lerp`); en pantallas táctiles miran hacia el último toque; sin interacción miran al frente. Con `prefers-reduced-motion` se quedan en el centro.
+- **Gato:** las pupilas siguen al cursor (solo se mueven las pupilas, dentro del ojo, con suavizado `lerp`); en pantallas táctiles miran hacia el último toque. Sin interacción, y con `prefers-reduced-motion`, se quedan donde las pone el dibujo (`cat.svg`, mirando arriba a la izquierda).
 - **Móvil (hasta 860 px):** una columna; principios con la figura encima del texto; línea de tiempo a la izquierda; una card por fila; el marquee sigue moviéndose; el gato más pequeño.
 
 **Dos niveles de lectura**
